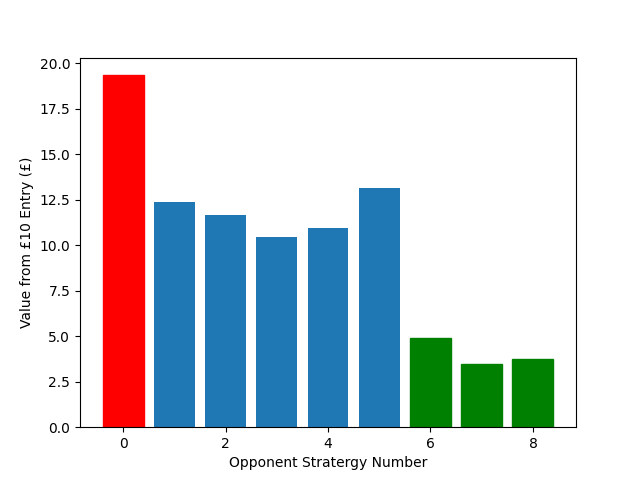
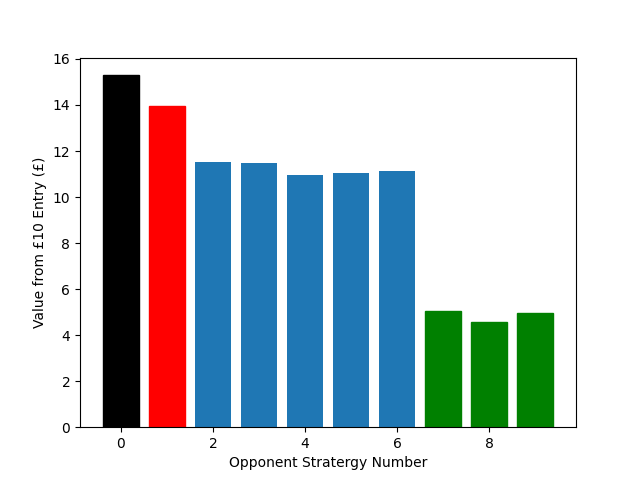
Full simulation and read me

diff --git a/full_simulation.py b/full_simulation.py
@@ -3,50 +3,43 @@ import numpy as np
 import pandas as pd
 
 from create_matrices import create_matrices
-from predictions import opponent_preds
+from predictions import opponent_preds, my_preds
 from match_outcomes import match_outcomes
 
 df = pd.read_csv('clean_matches.csv')
-fixtures, probs = create_matrices(df)
-rankings = np.argsort(-probs)
 
-num = 1000
-gamelengths = np.zeros(num, dtype=int)
-winners = np.zeros([num, 9])
+num = 10000
+winners = np.zeros([num, 10])
 for i in range(num):
     print(i)
     sim = i
-    all_preds = np.zeros([9, 20], dtype=int)
-    all_preds[0] = opponent_preds(probs, rankings, num=1)
-    for i in np.arange(5) + 1:
+    fixtures, probs = create_matrices(df, random=True)
+    rankings = np.argsort(-probs)
+    all_preds = np.zeros([10, 20], dtype=int)
+    all_preds[0] = my_preds(probs, rankings, survivefor=7)
+    all_preds[1] = opponent_preds(probs, rankings, num=1)
+    for i in np.arange(5) + 2:
         all_preds[i] = opponent_preds(probs, rankings)
-    for i in np.arange(3) + 6:
+    for i in np.arange(3) + 7:
         all_preds[i] = opponent_preds(probs, rankings, strat='proportional')
     results = match_outcomes(probs, fixtures)
-    still_in = np.ones(9, dtype=int)
+    still_in = np.ones(10, dtype=int)
     rnum = 0
     while sum(still_in) > 0 and rnum < 20:
         last_round = still_in.copy()
-        for j in range(9):
+        for j in range(10):
             if still_in[j] == 1:
                 if results[rnum, all_preds[j][rnum]] == 0:
                     still_in[j] = 0
         rnum += 1
-    gamelengths[sim] = rnum
     winners[sim] = last_round / sum(last_round)
-gl, freq = np.unique(gamelengths, return_counts=True)
 values = sum(winners)
-plt.bar(gl, freq / num)
-plt.xlabel('Gamelength')
-plt.ylabel('Percentage of Games')
-plt.savefig('Gamelengths.png')
-plt.show()
-barplot = plt.bar(np.arange(9), 90 * values / num)
-barplot[0].set_color('r')
-for i in [6, 7, 8]:
+barplot = plt.bar(np.arange(10), 100 * values / num)
+barplot[0].set_color('k')
+barplot[1].set_color('r')
+for i in [7, 8, 9]:
     barplot[i].set_color('g')
 plt.xlabel('Opponent Stratergy Number')
 plt.ylabel('Value from £10 Entry (£)')
 plt.savefig('OpponentStratValues.png')
 plt.show()
-

diff --git a/README.md b/README.md
@@ -1,1 +1,70 @@
 # FootballSurvivor
+
+Finding a good algorithm for winning a game of football survivor against 9
+other players and estimating it's value.
+
+My Approach:
+
+After downloading the football fixtures and win probabilities data (spi_matches.csv)
+from fivethirtyeight I wrote clean_data.py to select the rows and columns I
+needed for this project. I choose to use the 2019-2020 season as there were
+fewer postponements and so it was easier to add the gameweek column. I also
+replaced the football team names with integers to make the data easier to work
+with. I saved this cleaned data to clean_matches.csv.
+
+The next step was using this data to get the probabilities for and opponents of
+each team for each week. This is done by the create_matrices function in
+create_matrices.py. This function either choses the fixtures for the first 20
+weeks of the season or a random selection of weeks in a random order.
+
+After creating matrices of probabilities and fixtures (which can easily be used
+to rank the teams by win probability each week) it was time to think of
+strategies for the opponents. For the opponents I came up with 2 main
+strategies:
+
+The first is just a modified greedy algorithm. The opponents are
+given an input n and then in each week chose randomly between the top n teams
+that they haven't already chosen. Hence for n=1 this is just the greedy
+algorithm.
+
+The second is more random. The opponents chose between the teams they haven't
+already chosen with probabilities proportional to that teams win probability
+for the week. This is therefore just slightly better than chosing teams
+completely at random.
+
+After creating the opponents strategies I decided the general approach for my
+own strategy would be to optimise the probability of survival for n rounds and
+then use the greedy algorithm to fill in the rest of my predictions. The logic
+being there's not much difference between surving for 1 round and 3 rounds if 
+you need to survive for 5 rounds to win.
+
+In order to optimise this probability it choses the first n predictions using
+the greedy algorithm and then tries permutating and replacing the predictions
+until it can no longer find an improvement. This won't always find the absolute
+best first n but it'll be pretty close (it could find a local max).
+
+In order to help determine the best value of n I simulated the opponents against each
+other in opponents_simulation.py. I used 1 traditional greedy algorithm, 5 copies of 
+the greedy variant with n=3 and 3 copies of the proportional strat. I kept track of 
+the gamelength and winners for each run producing these two graphs:
+
+
+<img src= "https://github.com/PJF98/FootballSurvivor/blob/main/Gamelengths.png"/>
+
+<img src= "https://github.com/PJF98/FootballSurvivor/blob/main/OpponentsStratValues.png"/>
+
+From this I found that the mean number of rounds survived by the best opponent
+is 5.6 and the mode number is 5. It's also clear that the traditional greedy
+algorithm is the best and should be the benchmark to beat for my algorithm.
+
+I then coded up my algorithm in predictions.py (which contains the opponents
+algorithms are also). The full simulation is in full_simulation.py. I found
+several values of n for my algorithm where beating the greedy algorithm with
+n=5 being the best (I tried 10,000 runs with n = 3,4,5,6). For the full simulation
+I also decided to chose to randomise the weeks which were used each time in case 
+the greedy algorithm was particularly good on the first 20 weeks for example.
+
+To conclude my strategy is to optimise the probability of surviving for the
+first 5 weeks and then fill in the rest of the predictions with the greedy
+algorithm. As can be seen in the following graph the expected value of this
+strategy against these opponents is approximately £15.2.
